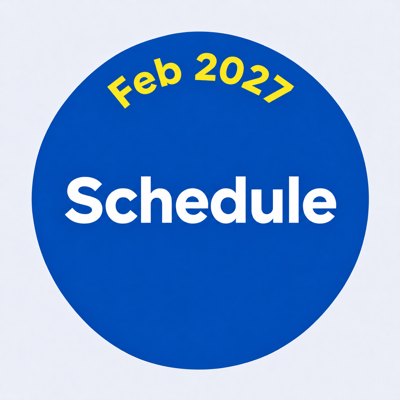
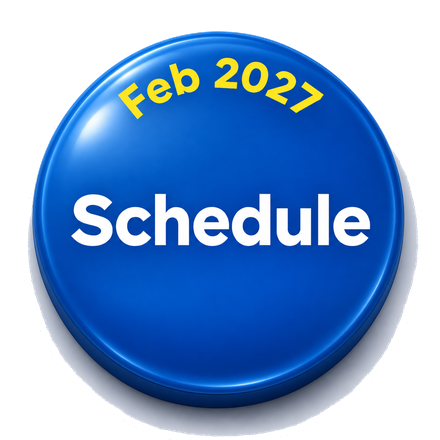
AFK schedule button: 3D glossy version, left-aligned, larger
Replace the flat schedule circle with the polished 3D pin-button image (its own
baked highlight + drop shadow), background made transparent so it sits cleanly
on the page. Left-aligned and enlarged to 230px (190px on small screens).

diff --git a/public/afk-programs/index.html b/public/afk-programs/index.html
@@ -551,12 +551,12 @@
       .program-card:hover, .btn-gold:hover, .btn-navy:hover, .btn-ghost:hover { transform: none; }
       .path-btn:hover .path-chevron, .path-btn:focus-visible .path-chevron { transform: none; }
     }
-    /* February 2027 schedule circle button */
+    /* February 2027 schedule 3D button */
     .sched-circle { display: inline-block; line-height: 0; transition: transform .2s ease; }
-    .sched-circle img { width: 168px; height: 168px; clip-path: circle(42% at 50% 50%); display: block; filter: drop-shadow(0 8px 20px rgba(21,87,214,.28)); transition: filter .2s ease; }
-    .sched-circle:hover { transform: translateY(-3px) scale(1.03); }
-    .sched-circle:hover img { filter: drop-shadow(0 12px 28px rgba(21,87,214,.42)); }
-    .sched-circle:focus-visible { outline: 3px solid var(--teal); outline-offset: 4px; border-radius: 50%; }
+    .sched-circle img { width: 230px; height: 230px; display: block; }
+    .sched-circle:hover { transform: translateY(-4px) scale(1.04); }
+    .sched-circle:focus-visible { outline: 3px solid var(--teal); outline-offset: 6px; border-radius: 50%; }
+    @media (max-width: 480px) { .sched-circle img { width: 190px; height: 190px; } }
   </style>
 <!-- confi-nav-assets v1 -->
 <link rel="preconnect" href="https://fonts.googleapis.com" />
@@ -1019,9 +1019,9 @@
       </details>
     </div>
 
-    <div style="text-align:center;margin-top:1.75rem;">
+    <div style="text-align:left;margin-top:1.75rem;">
       <a href="/afk-schedule-feb-2027/" class="sched-circle" aria-label="View the February 2027 AFK schedule">
-        <img src="/images/afk/feb-2027-schedule.png" alt="February 2027 Schedule" width="400" height="400" loading="lazy" />
+        <img src="/images/afk/feb-2027-schedule.png" alt="February 2027 Schedule" width="440" height="440" loading="lazy" />
       </a>
     </div>
   </div>
